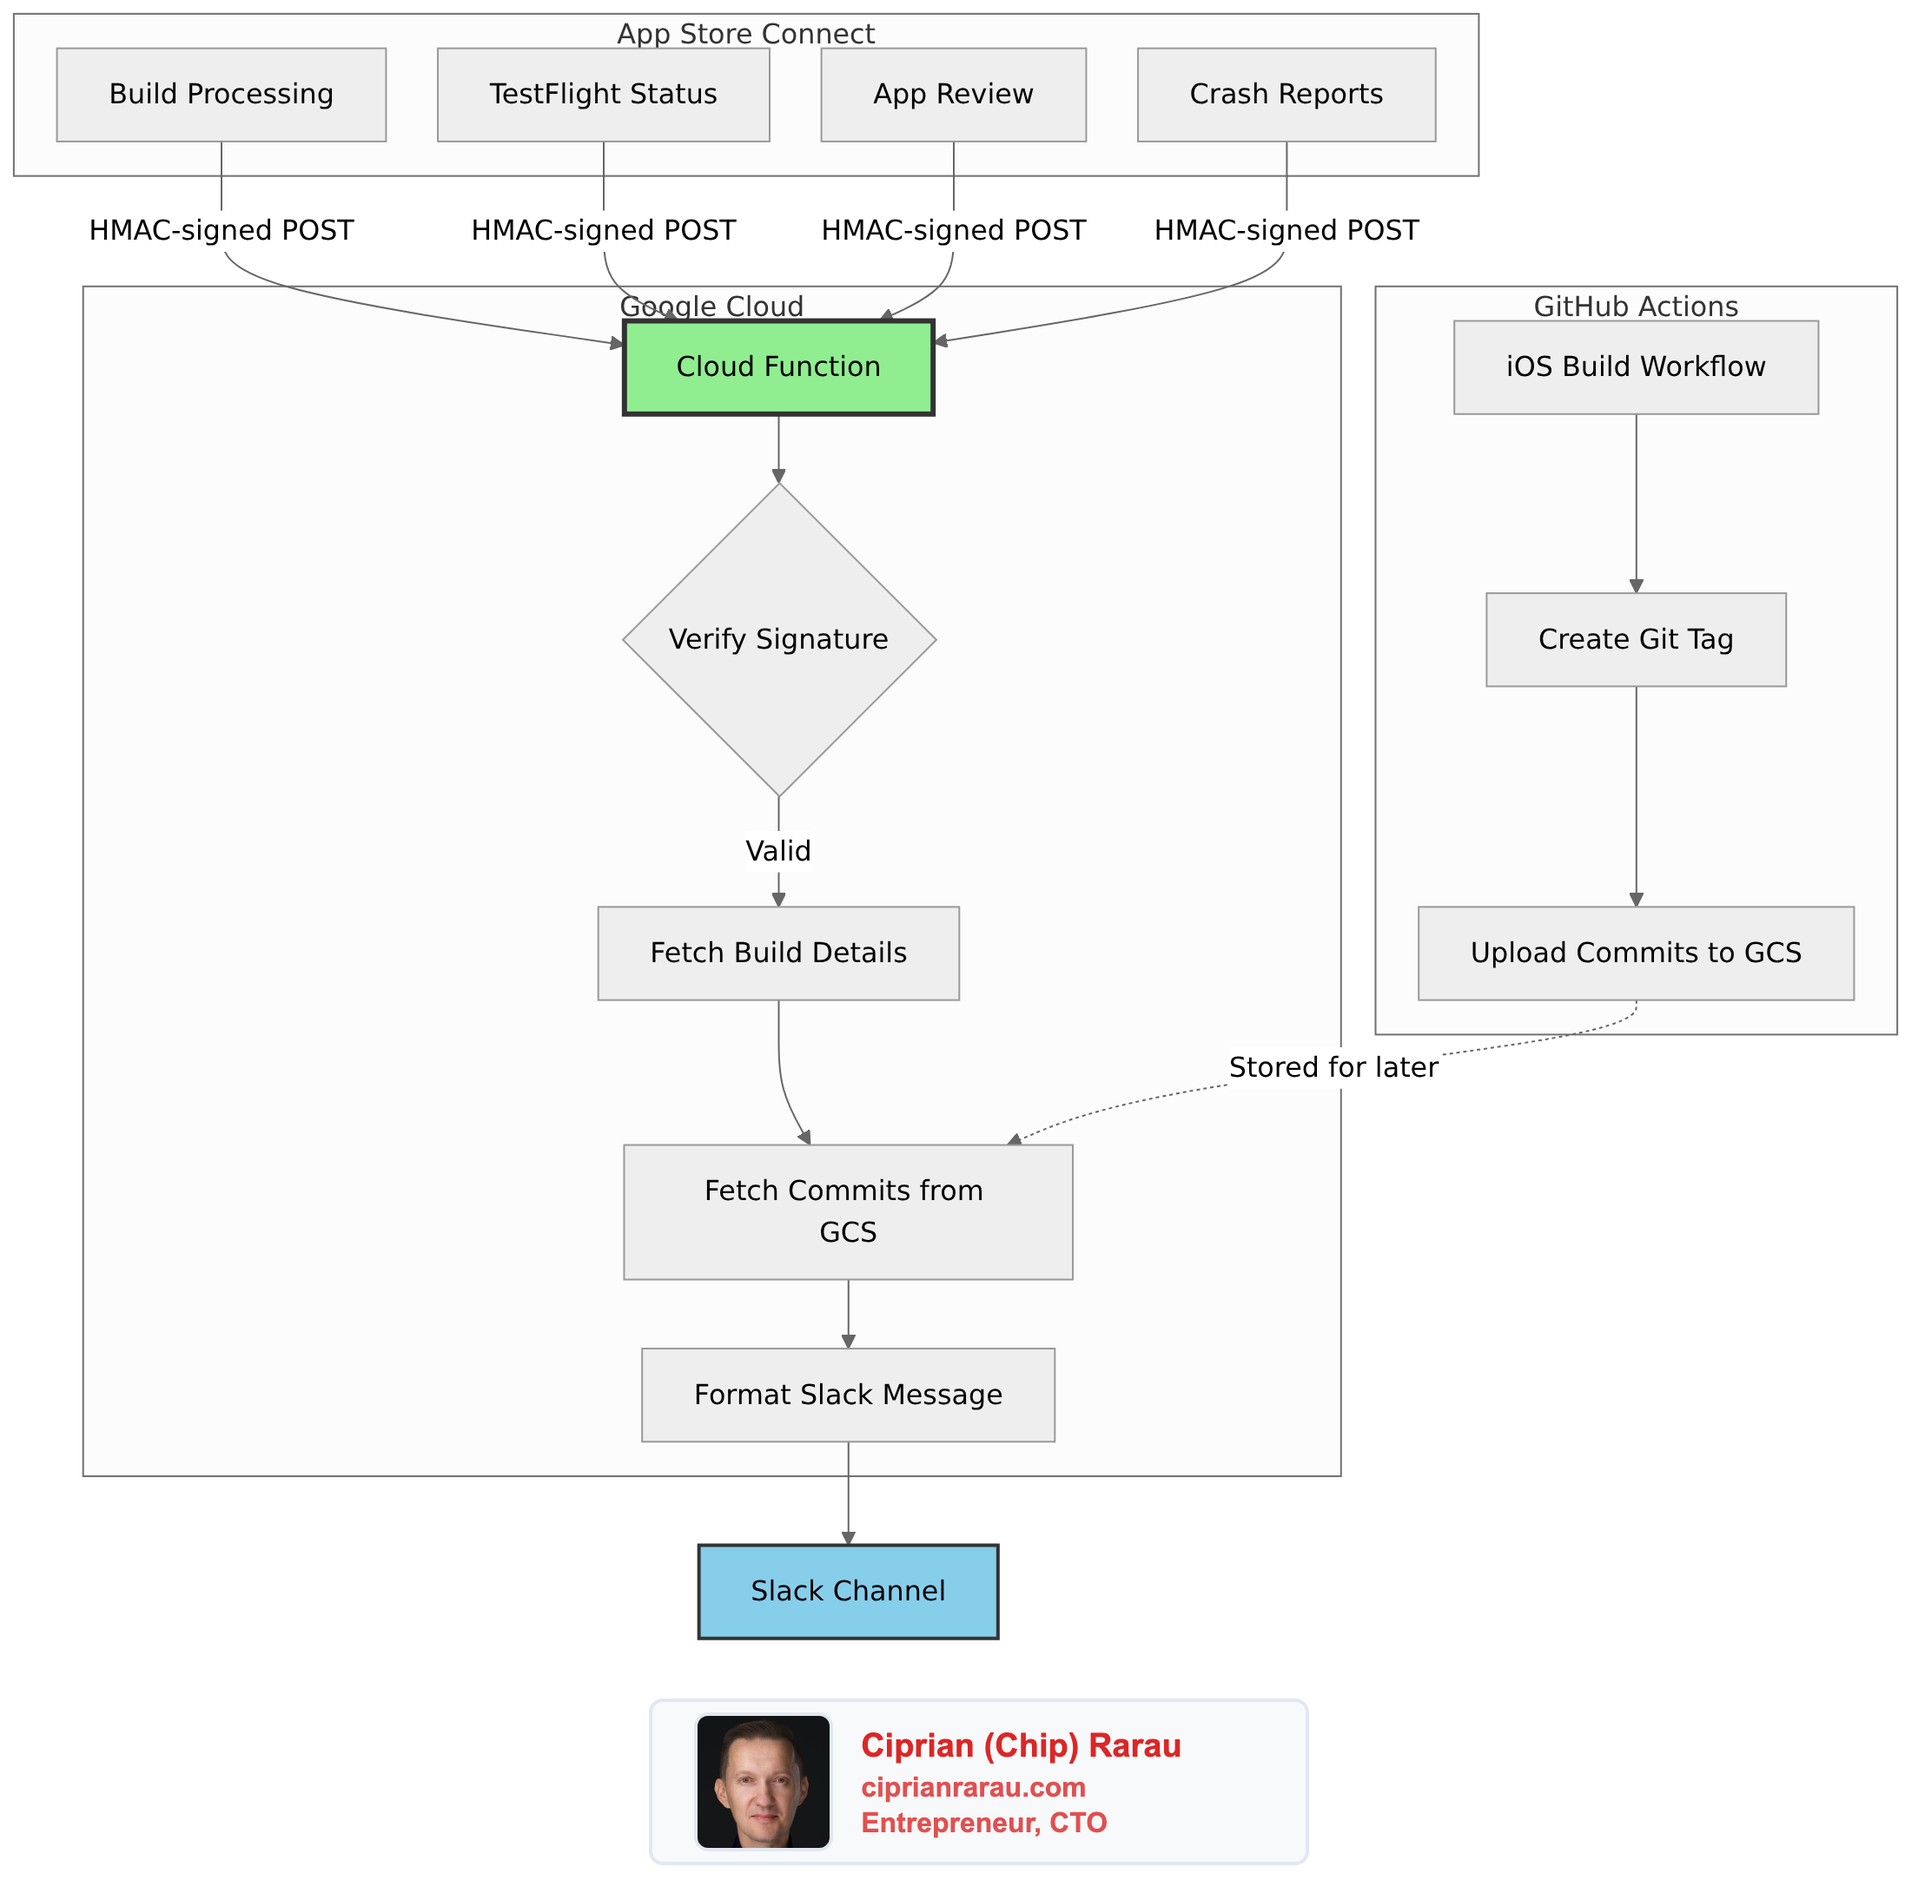
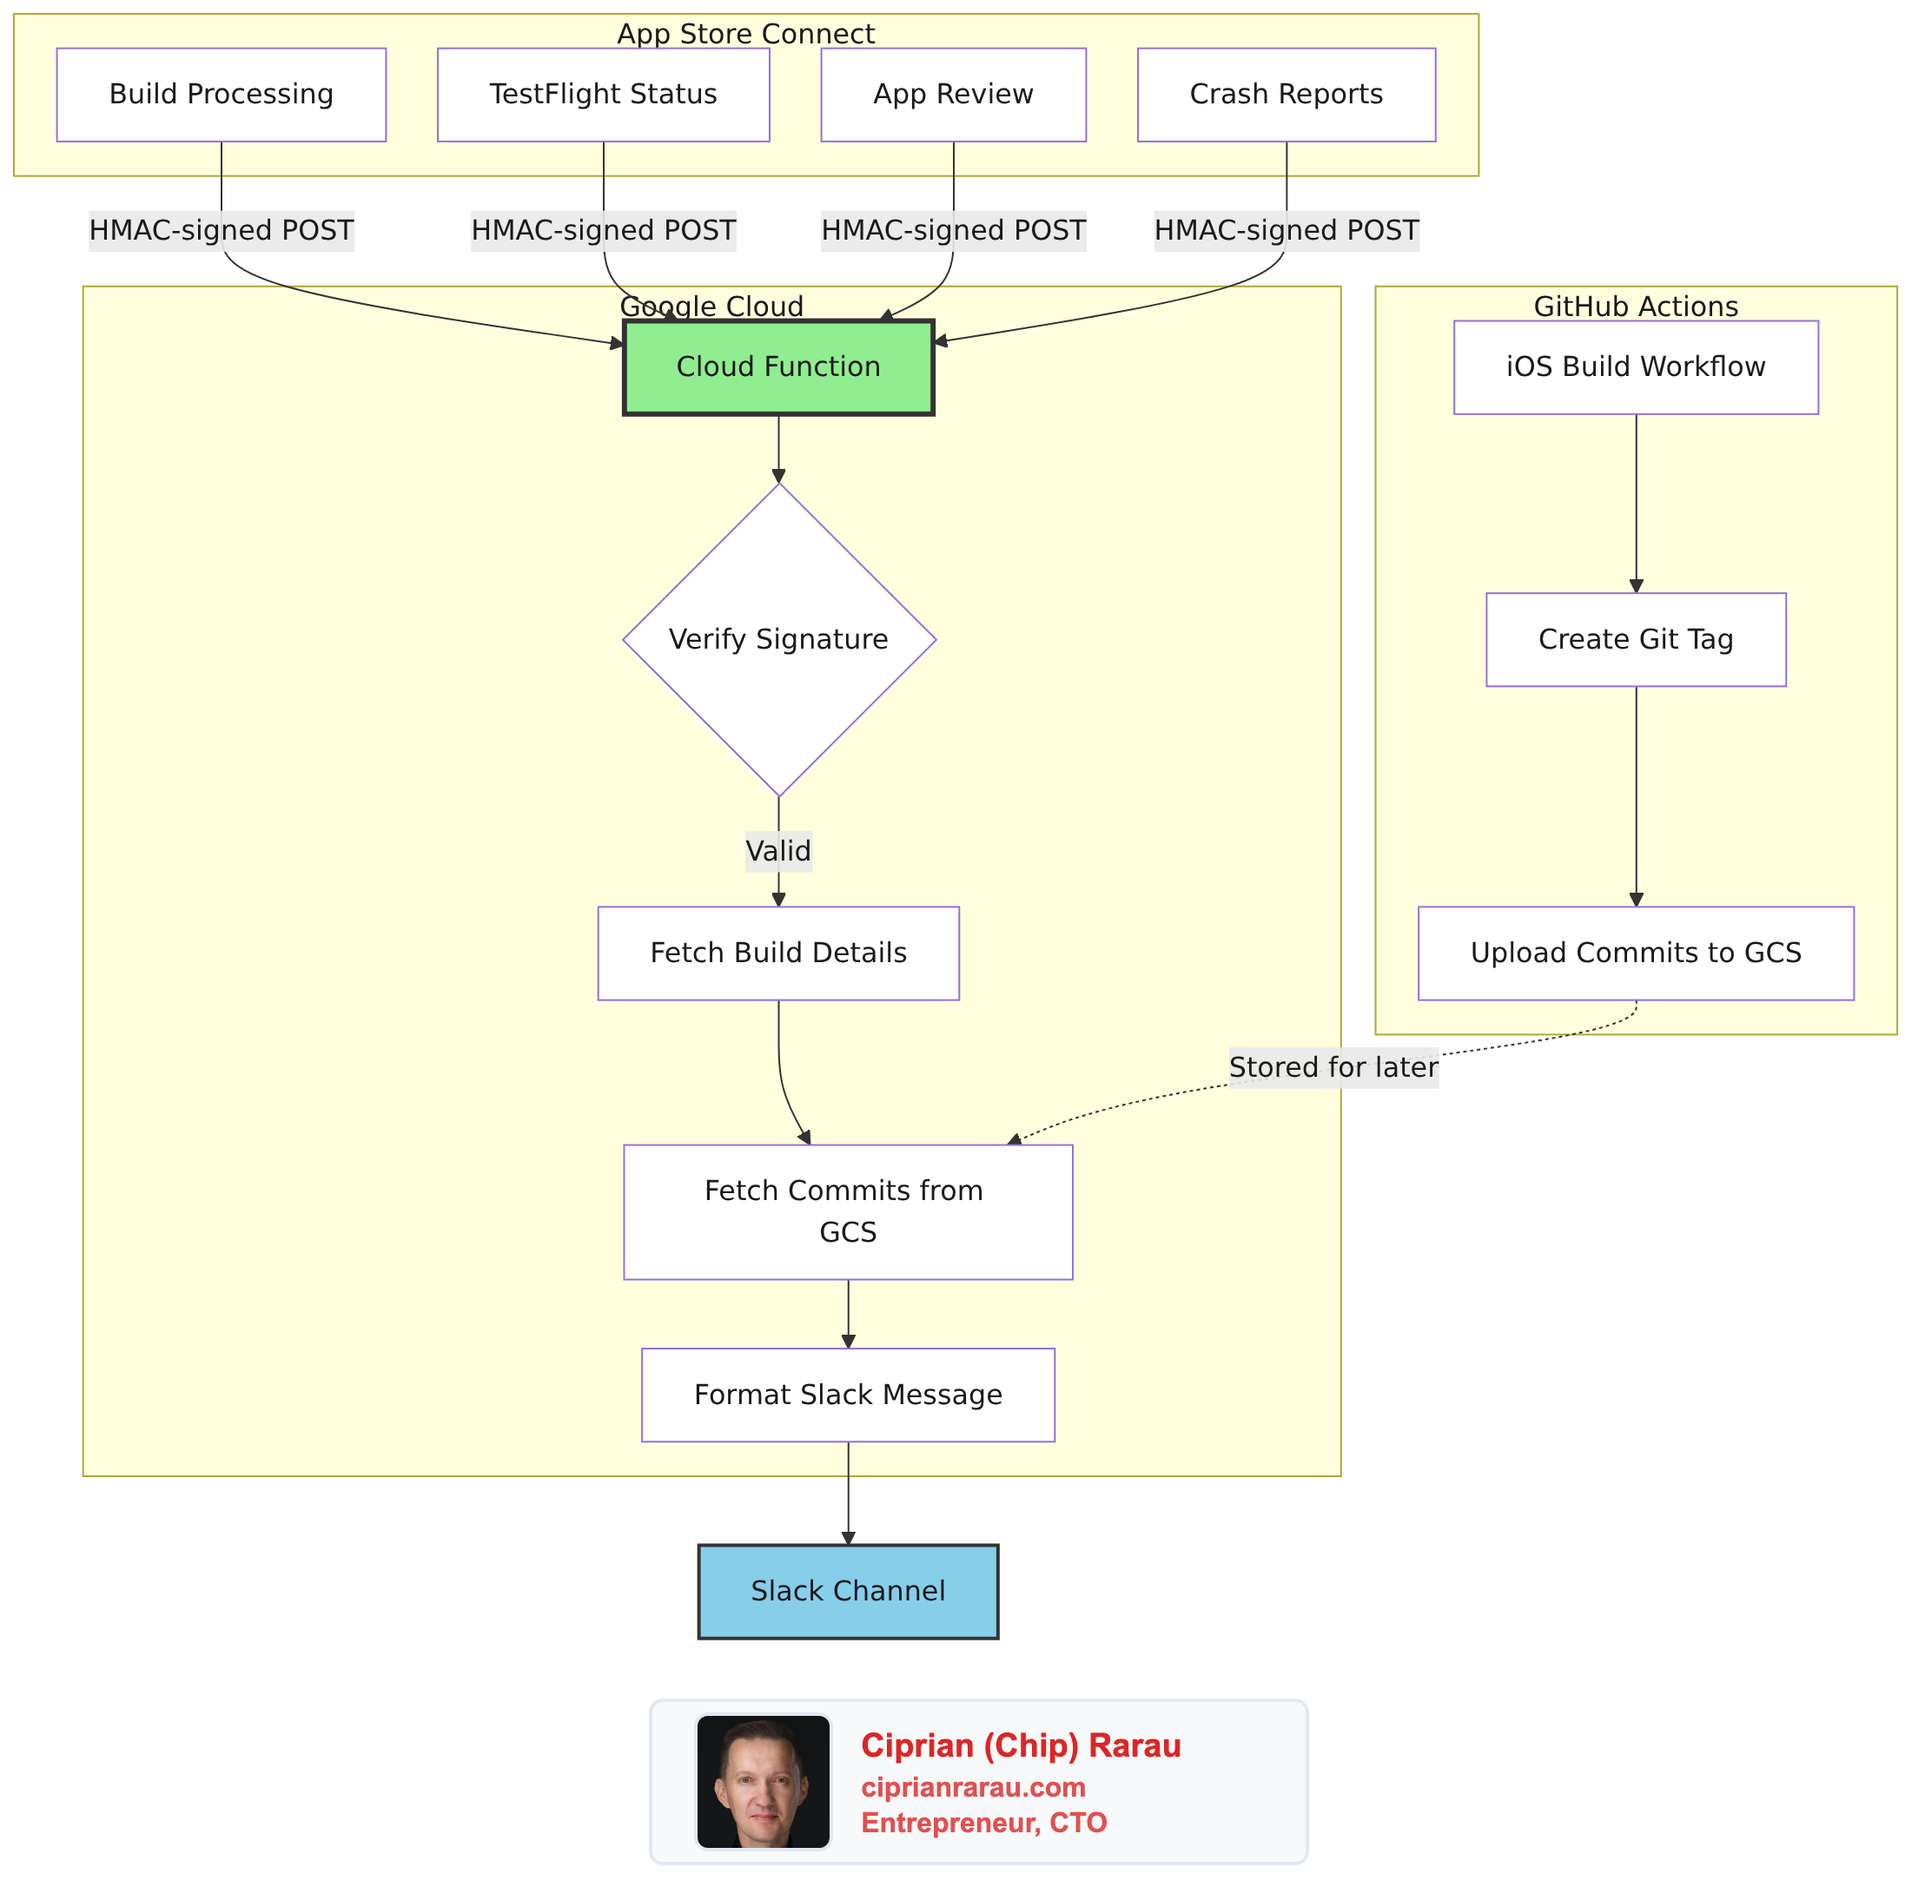
Regenerate all mermaid diagrams with light theme
Regenerated all 28 diagrams using the new default theme with improved
visibility. White background with blue primary colors and proper contrast.

diff --git a/src/data/post/github-monday-integration.md b/src/data/post/github-monday-integration.md
@@ -3,7 +3,7 @@ publishDate: 2026-01-03T12:00:00Z
 author: Ciprian Rarau
 title: "GitHub Meets Monday.com: Zero-Effort Task Tracking Through Git Commits"
 excerpt: How I built a webhook-based integration that makes GitHub and Monday.com work as a single system. Developers commit code, and task statuses update automatically through the entire deployment pipeline.
-image: /images/diagrams/github-monday-integration-diagram-e20f9b23.png
+image: /images/diagrams/github-monday-integration-diagram-45398a0b.png
 category: Technology
 tags:
   - devops
@@ -62,7 +62,7 @@ flowchart TB
     style STATUS_PROD fill:#E1BEE7,stroke:#7B1FA2,stroke-width:2px,color:#000
 ```
 
-![Diagram 4](/images/diagrams/github-monday-integration-diagram-45398a0b.png?v=49803cc2)
+![Diagram 1](/images/diagrams/github-monday-integration-diagram-45398a0b.png?v=0c79a587)
 
 The Monday task becomes a single source of truth that reflects exactly where the code is in the pipeline.
 
@@ -107,7 +107,7 @@ graph TB
     style TASK fill:#C8E6C9,stroke:#388E3C,stroke-width:2px,color:#000
 ```
 
-![Diagram 3](/images/diagrams/github-monday-integration-diagram-b2ddc22b.png?v=49803cc2)
+![Diagram 2](/images/diagrams/github-monday-integration-diagram-b2ddc22b.png?v=0c79a587)
 
 ### The Key Components
 
@@ -179,7 +179,7 @@ flowchart LR
     style DONE fill:#C8E6C9,stroke:#388E3C,stroke-width:2px,color:#000
 ```
 
-![Diagram 2](/images/diagrams/github-monday-integration-diagram-68bd9c3f.png?v=49803cc2)
+![Diagram 3](/images/diagrams/github-monday-integration-diagram-68bd9c3f.png?v=0c79a587)
 
 When code moves through branches, Monday.com tasks move through statuses. No manual intervention required.
 
@@ -212,7 +212,7 @@ flowchart TB
     style FAIL3 fill:#FFCDD2,stroke:#C62828,stroke-width:2px,color:#000
 ```
 
-![Diagram 1](/images/diagrams/github-monday-integration-diagram-e20f9b23.png?v=49803cc2)
+![Diagram 4](/images/diagrams/github-monday-integration-diagram-e20f9b23.png?v=0c79a587)
 
 The validation actually calls the Monday.com API to verify the task exists. No more broken links.
 

diff --git a/src/data/post/company-docs-dna-of-the-business.md b/src/data/post/company-docs-dna-of-the-business.md
@@ -11,7 +11,7 @@ tags:
   - infrastructure-as-code
   - production-first
   - spec-driven-development
-image: /images/diagrams/company-docs-dna-of-the-business-diagram-ec6924f0.png
+image: /images/diagrams/company-docs-dna-of-the-business-diagram-8ce6cc15.png
 metadata:
   featured: true
   showAuthor: true
@@ -60,7 +60,7 @@ flowchart TD
     style D fill:#90EE90,stroke:#333,stroke-width:2px
 ```
 
-![Diagram 4](/images/diagrams/company-docs-dna-of-the-business-diagram-8ce6cc15.png?v=49803cc2)
+![Diagram 1](/images/diagrams/company-docs-dna-of-the-business-diagram-8ce6cc15.png?v=0c79a587)
 
 ```mermaid
 flowchart TD
@@ -86,7 +86,7 @@ flowchart TD
     style E fill:#87CEEB,stroke:#333,stroke-width:2px
 ```
 
-![Diagram 3](/images/diagrams/company-docs-dna-of-the-business-diagram-77c83ced.png?v=49803cc2)
+![Diagram 2](/images/diagrams/company-docs-dna-of-the-business-diagram-77c83ced.png?v=0c79a587)
 
 The documentation covers:
 
@@ -130,7 +130,7 @@ flowchart LR
     style F fill:#90EE90,stroke:#333,stroke-width:2px
 ```
 
-![Diagram 2](/images/diagrams/company-docs-dna-of-the-business-diagram-0ecbac7e.png?v=49803cc2)
+![Diagram 3](/images/diagrams/company-docs-dna-of-the-business-diagram-0ecbac7e.png?v=0c79a587)
 
 The documentation site deploys through CI/CD just like any other service:
 
@@ -185,7 +185,7 @@ flowchart TD
     style G fill:#90EE90,stroke:#333,stroke-width:2px
 ```
 
-![Diagram 1](/images/diagrams/company-docs-dna-of-the-business-diagram-ec6924f0.png?v=49803cc2)
+![Diagram 4](/images/diagrams/company-docs-dna-of-the-business-diagram-ec6924f0.png?v=0c79a587)
 
 ## Why This Works Now
 

diff --git a/src/data/post/aws-to-azure-migration.md b/src/data/post/aws-to-azure-migration.md
@@ -12,7 +12,7 @@ tags:
   - terraform
   - production-first
   - devops-automation
-image: /images/diagrams/aws-to-azure-migration-diagram-ca6aecb0.png
+image: /images/diagrams/aws-to-azure-migration-diagram-d04bf085.png
 metadata:
   featured: false
   showAuthor: true
@@ -67,7 +67,7 @@ flowchart TD
     style C2 fill:#f9d5e5,stroke:#333,stroke-width:3px
 ```
 
-![Diagram 3](/images/diagrams/aws-to-azure-migration-diagram-d04bf085.png?v=49803cc2)
+![Diagram 1](/images/diagrams/aws-to-azure-migration-diagram-d04bf085.png?v=0c79a587)
 
 ## The Three-Environment Strategy
 
@@ -300,7 +300,7 @@ flowchart LR
     style F fill:#c8e6c9
 ```
 
-![Diagram 2](/images/diagrams/aws-to-azure-migration-diagram-f5cf32af.png?v=49803cc2)
+![Diagram 2](/images/diagrams/aws-to-azure-migration-diagram-f5cf32af.png?v=0c79a587)
 
 ### The Cutover Window
 
@@ -340,7 +340,7 @@ flowchart LR
     style C fill:#e0e0e0
 ```
 
-![Diagram 1](/images/diagrams/aws-to-azure-migration-diagram-ca6aecb0.png?v=49803cc2)
+![Diagram 3](/images/diagrams/aws-to-azure-migration-diagram-ca6aecb0.png?v=0c79a587)
 
 ### Rollback Plan
 

diff --git a/src/data/post/appstore-webhooks-automated-release-notes.md b/src/data/post/appstore-webhooks-automated-release-notes.md
@@ -13,7 +13,7 @@ tags:
   - google-cloud
   - github-actions
   - production-first
-image: /images/diagrams/appstore-webhooks-automated-release-notes-diagram-f70a1e74.png
+image: /images/diagrams/appstore-webhooks-automated-release-notes-diagram-34c04c66.png
 metadata:
   featured: true
   showAuthor: true
@@ -73,7 +73,7 @@ flowchart TD
     style J fill:#87CEEB,stroke:#333,stroke-width:2px
 ```
 
-![Diagram 2](/images/diagrams/appstore-webhooks-automated-release-notes-diagram-34c04c66.png?v=49803cc2)
+![Diagram 1](/images/diagrams/appstore-webhooks-automated-release-notes-diagram-34c04c66.png?v=0c79a587)
 
 ## What Apple Sends
 
@@ -593,7 +593,7 @@ sequenceDiagram
     Note over Slack: ✅ My App Build Ready<br/>Version: 1.2.3 Build: 236<br/>• abc1234 Add dark mode<br/>• def5678 Fix login bug
 ```
 
-![Diagram 1](/images/diagrams/appstore-webhooks-automated-release-notes-diagram-f70a1e74.png?v=49803cc2)
+![Diagram 2](/images/diagrams/appstore-webhooks-automated-release-notes-diagram-f70a1e74.png?v=0c79a587)
 
 ## Machine-Readable Summary
 

diff --git a/src/data/post/meta-repository-pattern.md b/src/data/post/meta-repository-pattern.md
@@ -10,7 +10,7 @@ tags:
   - infrastructure-as-code
   - production-first
   - development-workflow
-image: /images/diagrams/meta-repository-pattern-diagram-9ea8338e.png
+image: /images/diagrams/meta-repository-pattern-diagram-30d78660.png
 metadata:
   featured: true
   showAuthor: true
@@ -121,7 +121,7 @@ flowchart TD
     style D2 fill:#90EE90,stroke:#333,stroke-width:2px
 ```
 
-![Diagram 2](/images/diagrams/meta-repository-pattern-diagram-30d78660.png?v=49803cc2)
+![Diagram 1](/images/diagrams/meta-repository-pattern-diagram-30d78660.png?v=0c79a587)
 
 The Source Control panel shows changes grouped by repository. I can see at a glance what's modified across the entire company.
 
@@ -152,7 +152,7 @@ flowchart TD
     style D fill:#87CEEB,stroke:#333,stroke-width:2px
 ```
 
-![Diagram 1](/images/diagrams/meta-repository-pattern-diagram-9ea8338e.png?v=49803cc2)
+![Diagram 2](/images/diagrams/meta-repository-pattern-diagram-9ea8338e.png?v=0c79a587)
 
 The meta-level `CLAUDE.md` contains company-wide rules:
 - No AI attribution in commits

diff --git a/src/data/post/slack-configuration-as-code.md b/src/data/post/slack-configuration-as-code.md
@@ -11,7 +11,7 @@ tags:
   - python
   - team-management
   - configuration-as-code
-image: /images/diagrams/slack-configuration-as-code-diagram-a7e29fa5.png
+image: /images/diagrams/slack-configuration-as-code-diagram-43793164.png
 metadata:
   featured: false
   showAuthor: true
@@ -60,7 +60,7 @@ flowchart TD
     style K fill:#87CEEB,stroke:#333,stroke-width:2px
 ```
 
-![Diagram 2](/images/diagrams/slack-configuration-as-code-diagram-43793164.png?v=49803cc2)
+![Diagram 1](/images/diagrams/slack-configuration-as-code-diagram-43793164.png?v=0c79a587)
 
 ## Configuration Structure
 
@@ -443,7 +443,7 @@ flowchart TD
     style B fill:#90EE90,stroke:#333,stroke-width:2px
 ```
 
-![Diagram 1](/images/diagrams/slack-configuration-as-code-diagram-a7e29fa5.png?v=49803cc2)
+![Diagram 2](/images/diagrams/slack-configuration-as-code-diagram-a7e29fa5.png?v=0c79a587)
 
 One bot, one token, multiple purposes:
 - **Channel Manager**: Adds users to channels

diff --git a/src/data/post/specs-as-single-source-of-truth.md b/src/data/post/specs-as-single-source-of-truth.md
@@ -11,7 +11,7 @@ tags:
   - content-operations
   - documentation
   - devops-automation
-image: /images/diagrams/specs-as-single-source-of-truth-diagram-fd2e4a3a.png
+image: /images/diagrams/specs-as-single-source-of-truth-diagram-a603cb55.png
 metadata:
   featured: true
   showAuthor: true
@@ -59,7 +59,7 @@ flowchart TD
     style N fill:#87CEEB,stroke:#333,stroke-width:2px
 ```
 
-![Diagram 2](/images/diagrams/specs-as-single-source-of-truth-diagram-a603cb55.png?v=49803cc2)
+![Diagram 1](/images/diagrams/specs-as-single-source-of-truth-diagram-a603cb55.png?v=0c79a587)
 
 ## Specification Structure
 
@@ -149,7 +149,7 @@ flowchart LR
     F --> H[Marketing Copy]
 ```
 
-![Diagram 1](/images/diagrams/specs-as-single-source-of-truth-diagram-fd2e4a3a.png?v=49803cc2)
+![Diagram 2](/images/diagrams/specs-as-single-source-of-truth-diagram-fd2e4a3a.png?v=0c79a587)
 
 ## Help Articles from Specs
 

diff --git a/src/data/post/ai-powered-alert-summarizer.md b/src/data/post/ai-powered-alert-summarizer.md
@@ -13,7 +13,7 @@ tags:
   - observability
   - devops-automation
   - production-first
-image: /images/diagrams/ai-powered-alert-summarizer-diagram-9ce2abb8.png
+image: /images/diagrams/ai-powered-alert-summarizer-diagram-d0dc0c99.png
 metadata:
   featured: true
   showAuthor: true
@@ -60,7 +60,7 @@ flowchart TD
     style E fill:#f9d5e5,stroke:#333,stroke-width:2px
 ```
 
-![Diagram 2](/images/diagrams/ai-powered-alert-summarizer-diagram-d0dc0c99.png?v=49803cc2)
+![Diagram 1](/images/diagrams/ai-powered-alert-summarizer-diagram-d0dc0c99.png?v=0c79a587)
 
 ```mermaid
 flowchart TD
@@ -72,7 +72,7 @@ flowchart TD
     style B fill:#87CEEB,stroke:#333,stroke-width:2px
 ```
 
-![Diagram 1](/images/diagrams/ai-powered-alert-summarizer-diagram-9ce2abb8.png?v=49803cc2)
+![Diagram 2](/images/diagrams/ai-powered-alert-summarizer-diagram-9ce2abb8.png?v=0c79a587)
 
 ## The Architecture
 

diff --git a/src/data/post/voice-analytics-revolution.md b/src/data/post/voice-analytics-revolution.md
@@ -76,7 +76,7 @@ flowchart TD
     style J fill:#fce4ec,stroke:#c2185b,stroke-width:2px
 ```
 
-![Diagram 1](/images/diagrams/voice-analytics-revolution-diagram-ed3adc54.png?v=49803cc2)
+![Diagram 1](/images/diagrams/voice-analytics-revolution-diagram-ed3adc54.png?v=0c79a587)
 
 The magic happens in the middle: AI doesn't just transcribe what I say—it predicts what I'm about to say based on context. And on the receiving end, the LLM doesn't just parse my words—it understands my intent.
 

diff --git a/src/data/post/devops-across-clouds-production-first.md b/src/data/post/devops-across-clouds-production-first.md
@@ -75,7 +75,7 @@ flowchart TD
     style L fill:#87CEEB,stroke:#333,stroke-width:3px
 ```
 
-![Diagram 1](/images/diagrams/devops-across-clouds-production-first-diagram-ab3bc984.png?v=49803cc2)
+![Diagram 1](/images/diagrams/devops-across-clouds-production-first-diagram-ab3bc984.png?v=0c79a587)
 
 ## Infrastructure as Code: The Foundation of Everything
 

diff --git a/src/data/post/production-first-mindset-evolution.md b/src/data/post/production-first-mindset-evolution.md
@@ -37,7 +37,7 @@ flowchart TD
     style H fill:#e3f2fd,stroke:#333,stroke-width:3px
 ```
 
-![Diagram 1](/images/diagrams/production-first-mindset-evolution-diagram-a78f2c23.png?v=49803cc2)
+![Diagram 1](/images/diagrams/production-first-mindset-evolution-diagram-a78f2c23.png?v=0c79a587)
 
 ## The Post-Login Reality
 

diff --git a/src/data/post/sentry-configuration-as-code.md b/src/data/post/sentry-configuration-as-code.md
@@ -53,7 +53,7 @@ flowchart TD
     style B fill:#90EE90,stroke:#333,stroke-width:2px
 ```
 
-![Diagram 1](/images/diagrams/sentry-configuration-as-code-diagram-16783202.png?v=49803cc2)
+![Diagram 1](/images/diagrams/sentry-configuration-as-code-diagram-16783202.png?v=0c79a587)
 
 ## YAML Configuration Structure
 
